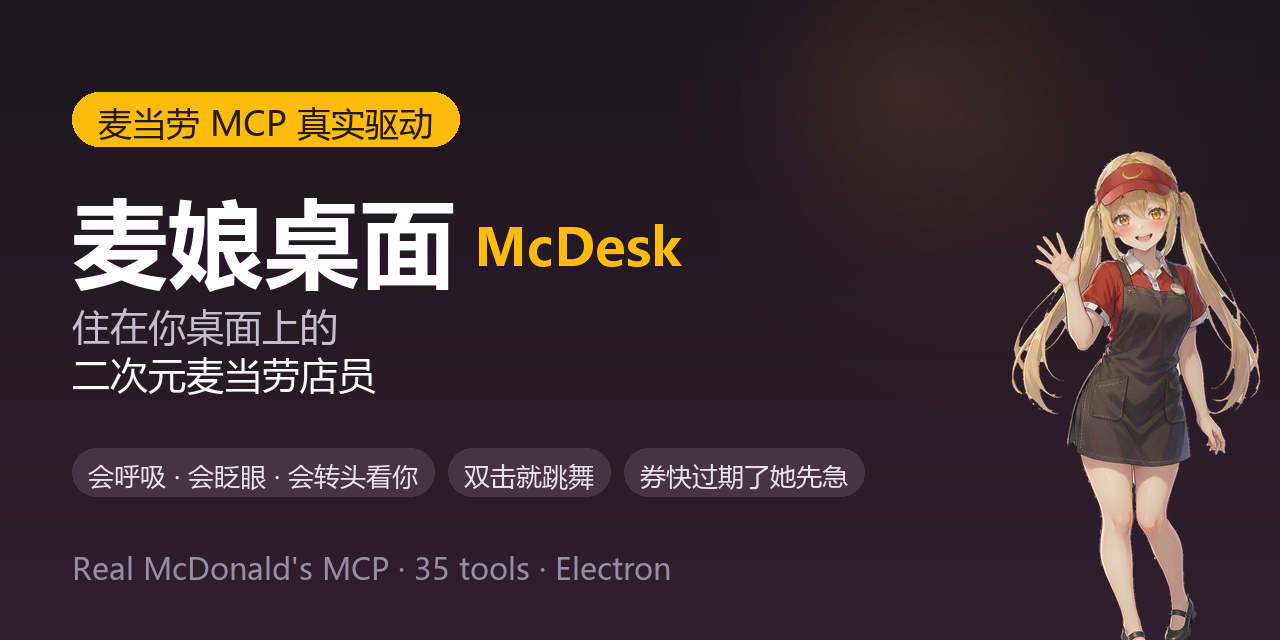
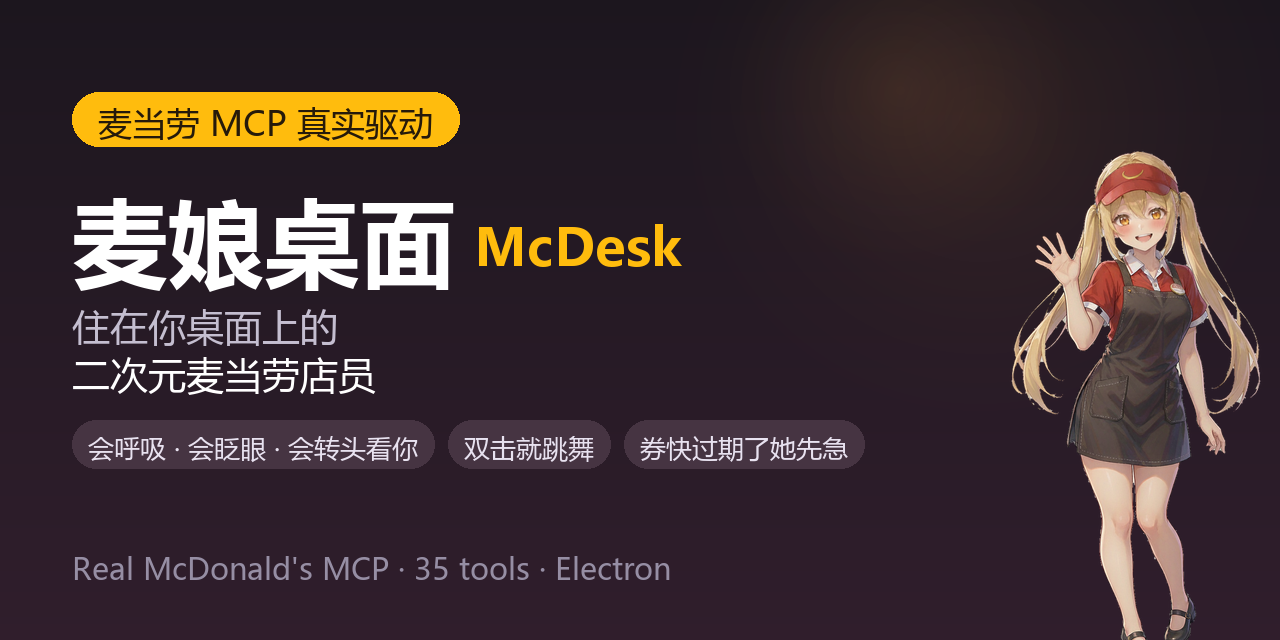
feat: 试玩页中英自动切换，社交卡片补英文版
- demo.html 按浏览器语言切换界面文案，也支持 ?lang=en 强制指定 ——
  海外渠道（HN / Reddit / X）点进来看到一屏中文会直接关掉
- make_social.py 出中英两版卡片；标签自动换行，英文长标签不再被
  右侧立绘压住

Changed region(s): [[0.0312, 0.6562, 0.6875, 0.7812]]

diff --git a/docs/demo.html b/docs/demo.html
@@ -128,8 +128,8 @@
 <body>
 
 <div class="top">
-  <span class="pill">麦当劳官方 MCP 驱动</span>
-  <a class="back" href="./index.html">← 回到主页</a>
+  <span class="pill" data-i18n="pill">麦当劳官方 MCP 驱动</span>
+  <a class="back" href="./index.html" data-i18n="back">← 回到主页</a>
 </div>
 
 <div class="stage">
@@ -146,10 +146,10 @@
 </div>
 
 <div class="bottom">
-  <p class="hint">把鼠标移到她身上她会跟着看 · <b>双击她就跳舞</b></p>
+  <p class="hint" id="hint"></p>
   <div class="row">
-    <button class="btn btn-play" id="play">让她跳一段舞</button>
-    <a class="btn btn-go" href="https://github.com/For-Chance/mcd-desk-mate">★ 去 GitHub 看完整的她</a>
+    <button class="btn btn-play" id="play" data-i18n="play">让她跳一段舞</button>
+    <a class="btn btn-go" href="https://github.com/For-Chance/mcd-desk-mate" data-i18n="go">★ 去 GitHub 看完整的她</a>
   </div>
 </div>
 
@@ -183,13 +183,41 @@
   ];
   var DANCE_FRAMES = ['d1', 'd2', 'd3', 'd4', 'd5', 'd6'];
 
-  var LINES = [
-    '双击我，我给你跳一段舞！',
-    '要吃点什么吗？我可以喂给你看（不对，是你喂我）。',
-    '我的节气门票还没集齐呢…',
-    '记得别让券过期啦。',
-    '这个页面上我只是站在这儿，真正的我会看你的券、你的积分。'
-  ];
+  // 界面文案：跟着浏览器语言走。海外渠道（HN / Reddit / X）点进来
+  // 看到一屏中文会直接关掉，这里不值得为省几行代码牺牲那部分转化。
+  // ?lang=en / ?lang=zh 可以强制指定 —— 往海外渠道分享时直接用带参数的链接，
+  // 免得对方浏览器报的是 zh 却又看不懂中文。
+  var forced = (location.search.match(/[?&]lang=(en|zh)/i) || [])[1];
+  var EN = forced ? forced.toLowerCase() === 'en'
+                  : !/^zh/i.test(navigator.language || 'zh');
+  var T = EN ? {
+    pill: "Driven by McDonald's official MCP",
+    back: '← Back to home',
+    play: 'Make her dance',
+    go: '★ See the full version on GitHub',
+    hint: 'Move your cursor near her — she follows · <b>Double-click her to dance</b>',
+    lines: [
+      "Double-click me and I'll dance!",
+      'Want a snack? I can show you one (wrong way round — you feed me).',
+      "I still haven't collected all my solar-term tickets…",
+      "Don't let your coupons expire.",
+      "On this page I'm just standing here. The real me watches your coupons and your points."
+    ]
+  } : {
+    pill: '麦当劳官方 MCP 驱动',
+    back: '← 回到主页',
+    play: '让她跳一段舞',
+    go: '★ 去 GitHub 看完整的她',
+    hint: '把鼠标移到她身上她会跟着看 · <b>双击她就跳舞</b>',
+    lines: [
+      '双击我，我给你跳一段舞！',
+      '要吃点什么吗？我可以喂给你看（不对，是你喂我）。',
+      '我的节气门票还没集齐呢…',
+      '记得别让券过期啦。',
+      '这个页面上我只是站在这儿，真正的我会看你的券、你的积分。'
+    ]
+  };
+  var LINES = T.lines;
 
   // ---------------------------------------------------------- 状态
   var tx = 0, ty = 0;        // 目标视线 (-1..1)
@@ -348,6 +376,15 @@
   });
 
   // ---------------------------------------------------------- 启动
+  // 套用文案
+  document.querySelectorAll('[data-i18n]').forEach(function (el) {
+    var k = el.getAttribute('data-i18n');
+    if (T[k]) el.textContent = T[k];
+  });
+  document.getElementById('hint').innerHTML = T.hint;
+  document.documentElement.lang = EN ? 'en' : 'zh-CN';
+  document.title = EN ? 'Live demo · McDesk' : '在线试玩 · 麦娘桌面 McDesk';
+
   // 预加载舞蹈帧，免得第一拍卡一下
   DANCE_FRAMES.forEach(function (id) { new Image().src = ASSET(id); });
 

diff --git a/scripts/make_social.py b/scripts/make_social.py
@@ -12,6 +12,9 @@
   * 文字必须够大够粗，缩略后还能读出「麦娘」两个字；
   * 用高对比配色，避免浅灰底浅字在信息流里糊成一片。
 
+中英两版都要出：中文版给 GitHub 的 Social Preview 和国内渠道，英文版给
+X / Reddit / Hacker News —— 英文渠道配一张中文卡片，点进来的人会走掉。
+
 用法：
     python scripts/make_social.py
 """
@@ -29,9 +32,33 @@ W, H = 1280, 640
 BG_TOP = (28, 22, 30)        # 深紫黑，让角色和黄色都跳出来
 BG_BOT = (48, 30, 44)
 ACCENT = (255, 188, 13)      # 麦当劳金
-ACCENT2 = (255, 66, 66)      # 麦当劳红
 TXT = (255, 255, 255)
 SUB = (196, 190, 208)
+
+LANG = {
+    "zh": {
+        "out": "social.png",
+        "badge": "麦当劳 MCP 真实驱动",
+        "title": "麦娘桌面",
+        "sub": "住在你桌面上的",
+        "sub2": "二次元麦当劳店员",
+        "tags": ["会呼吸 · 会眨眼 · 会转头看你", "双击就跳舞", "券快过期了她先急"],
+        "foot": "Real McDonald's MCP · 35 tools · Electron",
+        "title_size": 96,
+    },
+    "en": {
+        "out": "social-en.png",
+        "badge": "Driven by McDonald's real MCP",
+        "title": "McDesk",
+        "sub": "An anime McDonald's crew member",
+        "sub2": "who lives on your desktop",
+        "tags": ["Breathes · blinks · follows your cursor",
+                 "Dances on double-click",
+                 "Warns you before coupons expire"],
+        "foot": "35 MCP tools · MIT · Electron",
+        "title_size": 104,
+    },
+}
 
 
 def font(size, bold=False):
@@ -79,7 +106,8 @@ def glow(card, cx, cy, r, color, alpha):
     card.paste(layer, (cx - r, cy - r), mask)
 
 
-def main():
+def build(lang):
+    cfg = LANG[lang]
     card = vgrad(W, H, BG_TOP, BG_BOT)
     d = ImageDraw.Draw(card)
 
@@ -87,51 +115,56 @@ def main():
     glow(card, W - 300, 120, 340, (96, 62, 40), 78)
     glow(card, W - 380, 90, 200, (140, 90, 50), 52)
 
-    # 左侧：标题区
     x = 72
     f_brand = font(34)
-    f_title = font(96, bold=True)
+    f_title = font(cfg["title_size"], bold=True)
     f_sub = font(38)
     f_hook = font(30)
 
-    badge = "麦当劳 MCP 真实驱动"
-    bw = int(d.textlength(badge, font=f_brand)) + 52
+    bw = int(d.textlength(cfg["badge"], font=f_brand)) + 52
     d.rounded_rectangle([x, 92, x + bw, 146], radius=27, fill=ACCENT)
-    d.text((x + 26, 100), badge, font=f_brand, fill=(38, 26, 10))
+    d.text((x + 26, 100), cfg["badge"], font=f_brand, fill=(38, 26, 10))
 
-    d.text((x, 176), "麦娘桌面", font=f_title, fill=TXT)
-    tw = d.textlength("麦娘桌面", font=f_title)
-    d.text((x + tw + 18, 210), "McDesk", font=font(52, bold=True), fill=ACCENT)
+    d.text((x, 176), cfg["title"], font=f_title, fill=TXT)
+    tw = d.textlength(cfg["title"], font=f_title)
+    if lang == "zh":
+        d.text((x + tw + 18, 210), "McDesk", font=font(52, bold=True), fill=ACCENT)
 
-    d.text((x, 300), "住在你桌面上的", font=f_sub, fill=SUB)
-    d.text((x, 348), "二次元麦当劳店员", font=f_sub, fill=TXT)
+    d.text((x, 300), cfg["sub"], font=f_sub, fill=SUB)
+    d.text((x, 348), cfg["sub2"], font=f_sub, fill=TXT)
 
-    # 底部三枚标签——缩略图里看不清没关系，点开前放大时会读到
-    tags = ["会呼吸 · 会眨眼 · 会转头看你", "双击就跳舞", "券快过期了她先急"]
-    ty = 448
+    # 底部标签——缩略图里看不清没关系，点开前放大时会读到。
+    # 必须做换行：英文标签比中文长得多，一行铺过去会被右侧立绘压住。
+    ty = 420
     tx = x
     ft = font(26)
-    for t in tags:
+    limit = 860                    # 立绘从 x≈934 起，标签留出安全距离
+    for t in cfg["tags"]:
         w = int(d.textlength(t, font=ft)) + 32
+        if tx > x and tx + w > x + limit:
+            tx = x
+            ty += 58
         d.rounded_rectangle([tx, ty, tx + w, ty + 48], radius=24, fill=(70, 52, 66))
         d.text((tx + 16, ty + 10), t, font=ft, fill=(232, 226, 240))
         tx += w + 14
 
-    d.text((x, 548), "Real McDonald's MCP · 35 tools · Electron", font=f_hook,
-           fill=(150, 142, 164))
+    d.text((x, 548), cfg["foot"], font=f_hook, fill=(150, 142, 164))
 
     # 右侧：角色（贴底站立，略出血制造「从画面外走进来」的感觉）
     pet = Image.open(os.path.join(ASSETS, "mcn-happy.png")).convert("RGBA")
     ph = 600
     pw = round(pet.width * ph / pet.height)
     pet = pet.resize((pw, ph), Image.LANCZOS)
-    px = W - pw + 54
-    py = H - ph + 34
-    card.paste(pet, (px, py), pet)
+    card.paste(pet, (W - pw + 54, H - ph + 34), pet)
 
-    out = os.path.join(DOCS, "social.png")
+    out = os.path.join(DOCS, cfg["out"])
     card.save(out)
     print(f"[social] {out}  {card.size}")
+
+
+def main():
+    build("zh")
+    build("en")
 
 
 if __name__ == "__main__":
